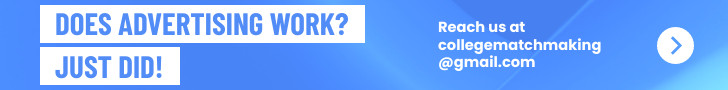
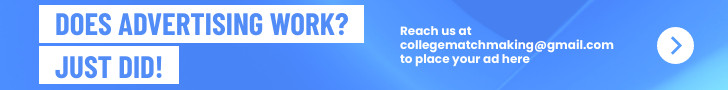
link visited and ad.jpg text phrasing

diff --git a/style.css b/style.css
@@ -54,6 +54,9 @@
   a {
     color: #8475f9;
   }
+  a:visited {
+    color: #9140db;
+  }
 }
 
 body {
